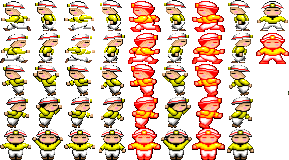
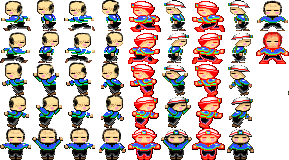
2020/06/05 TIKER 新增 兩個陣營 可供線上使用者輸入參與加入， population 分開

diff --git a/main.js b/main.js
@@ -63,6 +63,7 @@ let conveyorSound,
   
 // Genetic Algothrithm Stuff
 let population,
+  populations =[];
   recordScore = 0;
 
 
@@ -95,15 +96,39 @@ var gameMute = true;
 ComfyJS.Init( "chimera4956" );
 
 // var ComfyJS = require("comfy.js");
+// 訂閱者才能使用功能
 ComfyJS.onCommand = ( user, command, message, flags, extra ) => {
-  if(command === "test" ) {
+  
+  if(flags.subscriber && command === "test" ) {
     console.log( "!test was typed in chat" + "(" + user + ")" );
     newRecord.play();
   }
 
-  if(command === "kill" ) {
+  if(flags.subscriber && command === "kill" ) {
     console.log( "!kill was typed in chat" + "(" + user + ")"  );
-    population.kill();
+    // population.kill();
+  }
+
+  if(flags.subscriber && command === "clone" ) {
+    console.log( "!clone was typed in chat" + "(" + user + ")"  );
+    // 創造新家族
+    // populations.push(new Population(10,user)) 
+  }
+
+
+  if(flags.subscriber && command === "join_b" ) {
+    console.log( "!join_b was typed in chat" + "(" + user + ")"  );    
+    
+    // B家族新成員
+    populationTsai.newMember(user,0) 
+  }
+
+
+  if(flags.subscriber && command === "join_g" ) {
+    console.log( "!join_g was typed in chat" + "(" + user + ")"  );    
+    
+    // G家族新成員
+    populationTsai.newMember(user,1) 
   }
 
 }
@@ -122,6 +147,7 @@ function preload() {
   game.load.spritesheet("player4", "player4.png", 32, 32);
   game.load.spritesheet("player5", "player5.png", 32, 32);
   game.load.spritesheet("player6", "player6.png", 32, 32);
+  // game.load.spritesheet("player_han", "player_han.png", 32, 32);
 
 
   game.load.spritesheet('muteBtn', 'mute.png', 170, 150);
@@ -221,8 +247,16 @@ function create() {
   // 有空要研究一下  瀏覽器 requestAnimationFrame 機制
   game.stage.disableVisibilityChange = true;
 
-  // Create population
-  population = new Population(100);
+  // Create population 
+  // population = new Population(200);
+
+  populationHan = new Population(5,"BOT",0);
+
+  populationTsai = new Population(5,"BOT",1);
+
+
+  populations.push(populationHan);
+  populations.push(populationTsai);
 
   // createPlayer();
   // createTextsBoard();
@@ -235,6 +269,9 @@ function create() {
   // 關閉鏡頭特效按鈕
   cameraEffectBtn = game.add.button(900, 30, 'cameraEffectBtn', cameraEffectBtnOnClick, this, 0, 0, 0);
   cameraEffectBtn.scale.setTo(0.7,0.7);
+
+  //遊戲背景顏色
+  game.stage.backgroundColor = "#4488AA";
  
 }
 
@@ -243,7 +280,48 @@ function update() {
   if (status == "gameOver" && keyboard.enter.isDown) restart();
   if (status != "loading") return;
 
-  if (population.done()) {
+  // if (population.done()) {
+  //   // Restart because this generation all died
+
+   
+  //   // recolorImage(img,255,255,0,11,28,214)
+
+
+  //   console.log("dead");
+  //   restart();
+  //   return;
+  // }
+
+  // 若大於10層
+  // if(distance>10)
+  // {        
+  //   population.beginLevel =0;
+  // }
+
+  // population.update();
+
+
+  // turnDead  = population.turnDead
+
+  // deadnumber.innerHTML = turnDead;
+
+  var allDone = false;
+
+  for (let i = 0; i < populations.length; i++) {
+            
+    if (!populations[i].done() ) {     
+      populations[i].update();           
+      allDone =false
+    }     
+    else
+    {
+      allDone = true;
+    }
+
+  }
+  
+  
+  if (allDone) {
     // Restart because this generation all died
 
    
@@ -255,18 +333,7 @@ function update() {
     return;
   }
 
-  // 若大於10層
-  if(distance>10)
-  {        
-    population.beginLevel =0;
-  }
 
-  population.update();
-
-
-  turnDead  = population.turnDead
-
-  deadnumber.innerHTML = turnDead;
 
   updatePlatforms();
 
@@ -373,8 +440,15 @@ function updateDistance() {
 
   if (recordScore < distance) {
 
+    // // 破紀錄 放音樂
+    // if(!breakNewRocord && population.generation !=0)
+    // {
+    //   newRecord.play();
+    //   breakNewRocord  = true;
+    // }
+
     // 破紀錄 放音樂
-    if(!breakNewRocord && population.generation !=0)
+    if(!breakNewRocord )
     {
       newRecord.play();
       breakNewRocord  = true;
@@ -539,7 +613,15 @@ function restart() {
   platforms = [];
   distance = 0;
   breakNewRocord = false;
-  population.naturalSelection();
+
+  // population.naturalSelection();
+
+
+  for (let i = 0; i < populations.length; i++) {
+            
+    populations[i].naturalSelection();     
+  }
+
 }
 
 

diff --git a/Population.js b/Population.js
@@ -1,7 +1,7 @@
 let showBest = true;
 
 class Population {
-  constructor(size) {
+  constructor(size,FamilyName,species) {
     this.players = [];
     this.bestPlayer;
     this.bestFitness = 0;
@@ -10,10 +10,22 @@ class Population {
     this.turnDead = 0;
     this.beginLevel = 1;
 
-    for (let i = 0; i < size; i++) {
-      this.players.push(new Player(FamilyNames[i], this.generation));
-      this.players[i].brain.generateNetwork();
-      this.players[i].brain.mutate();
+    // 假如有傳家族名子，統一命名，要不然就是系統隨機    
+    if(FamilyName)
+    {
+      for (let i = 0; i < size; i++) {
+        this.players.push(new Player(FamilyName, this.generation,species));
+        this.players[i].brain.generateNetwork();
+        this.players[i].brain.mutate();
+      }
+    }
+    else
+    {
+      for (let i = 0; i < size; i++) {
+        this.players.push(new Player(FamilyNames[i], this.generation,species));
+        this.players[i].brain.generateNetwork();
+        this.players[i].brain.mutate();
+      }
     }
   }
 
@@ -34,6 +46,17 @@ class Population {
 
   }
 
+  newMember(name,species)
+  {
+    var newMember = new Player(name, this.generation,species);
+
+    newMember.brain.generateNetwork();
+    newMember.brain.mutate();
+
+    this.players.push(newMember);
+
+  }
+
   updateAlive() {
 
     var suddenlyDeadNumber = 0;
@@ -42,22 +65,22 @@ class Population {
       
       
       if (!this.players[i].dead ) {      
-        this.players[i].look();
-        this.players[i].think();
+        // this.players[i].look();
+        // this.players[i].think();
         this.players[i].update();               
       }
       // 每6frame 才會更新一次行動邏輯，以節省效能
-      // if (!this.players[i].dead && this.players[i].passframe >=6) {
-      //   this.players[i].look();
-      //   this.players[i].think();
-      //   // this.players[i].update();        
-      //   // 歸零
-      //   this.players[i].passframe = 0;
-      // }
-      // else if(this.players[i].passframe <6)
-      // {
-      //   this.players[i].passframe +=1;
-      // }
+      if (!this.players[i].dead && this.players[i].passframe >=6) {
+        this.players[i].look();
+        this.players[i].think();
+        // this.players[i].update();        
+        // 歸零
+        this.players[i].passframe = 0;
+      }
+      else if(this.players[i].passframe <6)
+      {
+        this.players[i].passframe +=1;
+      }
       // 計算死亡數
       else if (this.players[i].dead & !this.players[i].reportDead)
       {
@@ -111,9 +134,15 @@ class Population {
     for (let i = 0; i < this.players.length; i++) {
       let parent1 = this.selectPlayer();
       let parent2 = this.selectPlayer();
+
       if (parent1.fitness > parent2.fitness)
+      {
         children.push(parent1.crossover(parent2));
-      else children.push(parent2.crossover(parent1));
+      }        
+      else
+      {
+        children.push(parent2.crossover(parent1));
+      } 
     }
 
     this.players.forEach((element) => {

diff --git a/Player.js b/Player.js
@@ -1,8 +1,9 @@
 let numOfPlayers = 0;
 class Player {
-  constructor(familyName, gen) {
+  constructor(familyName, gen,species) {
     this.familyName = familyName;
     this.gen = gen;
+    this.species =species;
 
     numOfPlayers++;
 
@@ -11,7 +12,18 @@ class Player {
     // const player = game.add.sprite(gameWidth / 2, 50, "player");
 
     // 隨機從0~6 號　共7 個player 中選擇腳色外觀
-    const player = game.add.sprite(gameWidth / 2, 50, "player" + Math.floor(Math.random()*7));
+    // const player = game.add.sprite(gameWidth / 2, 50, "player" + Math.floor(Math.random()*7));
+
+    // Mr.Han MOD
+    // const player = game.add.sprite(gameWidth / 2, 50, "player_han");
+
+    // 兩隻選一隻
+    // const player = game.add.sprite(gameWidth / 2, 50, "player" + Math.floor(Math.random()*2));
+
+
+    // 依傳入的0、1家族而定
+    const player = game.add.sprite(gameWidth / 2, 50, "player" + species);
+
 
     player.scale.setTo(scale, scale);
     player.direction = 10;
@@ -303,7 +315,7 @@ class Player {
       platCenter = platformX +width/2;
 
       // 增加視線濾鏡 確定小朋友所見
-      closestPlatform.tint = 0xff00ff;
+      // closestPlatform.tint = 0xff00ff;
 
       distToPlatformLeftEdge = Math.abs(x - playerX);
       distToPlatformRightEdge = Math.abs(x + width - playerX);
@@ -317,7 +329,7 @@ class Player {
         playerGoRight = 1;
 
         // 綠
-        this.player.tint = 0x42f54e;
+        // this.player.tint = 0x42f54e;
       }
       if((x+width/2)< (playerX + playerWidth/2))
       {
@@ -325,7 +337,7 @@ class Player {
         playerGoRight = 0;
 
         // 紅
-        this.player.tint = 0xff3300;
+        // this.player.tint = 0xff3300;
       }
     }
 
@@ -340,7 +352,7 @@ class Player {
       platXCenter = platXformX +width/2;
 
       // 增加視線濾鏡 確定小朋友所見
-      closestPlatXform.tint = 0xFF6F61;      
+      // closestPlatXform.tint = 0xFF6F61;      
     }
 
 
@@ -468,7 +480,7 @@ class Player {
 
   clone() {
     //Returns a copy of this player
-    let clone = new Player(this.familyName, this.gen);
+    let clone = new Player(this.familyName, this.gen,this.species);
     clone.brain = this.brain.clone();
     return clone;
   }
@@ -516,7 +528,7 @@ class Player {
 
   crossover(parent) {
     //Produce a child
-    let child = new Player(this.familyName, this.gen);
+    let child = new Player(this.familyName, this.gen,this.species);
     if (parent.fitness < this.fitness)
       child.brain = this.brain.crossover(parent.brain);
     else child.brain = parent.brain.crossover(this.brain);
